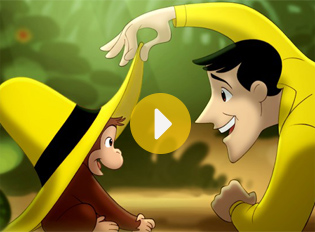
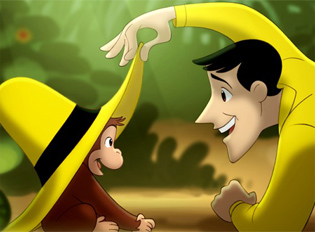
1. Small palyer added

Changed region(s): [[0.4, 0.3922, 0.6286, 0.6638]]

diff --git a/Task2/js/player.js b/Task2/js/player.js
@@ -41,24 +41,17 @@ player.prototype.init = function(){
 	me.__progress = container.getElementsByClassName(me.__progressCss)[0];
 	
 	me.__playButtonLarge = container.getElementsByClassName(me.__playButtonLargeCss)[0];
+	if(me.__playButtonLarge) {
+		me.__playButtonLarge.addEventListener('click', function() { me.togglePlayback(); });
+	}
+	
 	me.__playButtonSmall = container.getElementsByClassName(me.__playButtonSmallCss)[0];
-	me.__playButtonLarge.addEventListener('click', function() { me.togglePlayback(); });
-	me.__playButtonSmall.addEventListener('click', function() { me.togglePlayback(); });
+	if(me.__playButtonSmall) {
+		me.__playButtonSmall.addEventListener('click', function() { me.togglePlayback(); });
+	}
 	
 	me.__video.addEventListener('click', function() { me.togglePlayback(); });
-	
-	me.__video.addEventListener("timeupdate", function() { 
-		var progress = Math.floor(me.__video.currentTime) / Math.floor(me.__video.duration);
-    	me.__progress.style.width = Math.floor(progress * 100) + "%";
-	});
-	
-	me.__video.addEventListener("ended", function() { 
-		me.removeClass(me.__container, me.__containerPlayCss);
-		me.__video.pause();
-		me.__progress.style.width = '0%';
-	});
-	
-	me.__video.addEventListener("play", function() { 
+		me.__video.addEventListener("play", function() { 
 		me.removeClass(me.__container, me.__containerPauseCss);
 		me.__container.className += ' ' + me.__containerPlayCss;
 	});
@@ -66,6 +59,21 @@ player.prototype.init = function(){
 	me.__video.addEventListener("pause", function() { 
 		me.removeClass(me.__container, me.__containerPlayCss);
 		me.__container.className += ' ' + me.__containerPauseCss;
+	});
+	
+	me.__video.addEventListener("timeupdate", function() { 
+		if(me.__progress) {
+			var progress = Math.floor(me.__video.currentTime) / Math.floor(me.__video.duration);
+			me.__progress.style.width = Math.floor(progress * 100) + "%";
+		}
+	});
+
+	me.__video.addEventListener("ended", function() { 
+		me.removeClass(me.__container, me.__containerPlayCss);
+		me.__video.pause();
+		if(me.__progress) {
+			me.__progress.style.width = '0%';
+		}
 	});
 }
 

diff --git a/Task2/index.html b/Task2/index.html
@@ -30,8 +30,8 @@
     <title>Responsive design</title>
     <script type="text/javascript">
 		document.addEventListener('DOMContentLoaded', function() {
-		   var playerLarge = new player('playerLarge');
-			playerLarge.init();
+		   (new player('playerLarge')).init();
+		   (new player('playerSmall')).init();
 		}, false);
 	</script>
 </head>
@@ -127,7 +127,17 @@
                                 sed do eiusmod tempor incididunt ut
                             </div>
                             <div class="column column--video">
-                                <img src="images/player-simple-bg.jpg" style="width:100%;" />
+                                <div id="playerSmall" class="video-player">
+                                    <video 
+                                   		height="100%"
+                                        width="100%"
+                                     	poster="images/player-simple-bg.jpg"
+                                     	src="video/video.mp4">
+                                    </video>
+                                    <div class="play-button-large icon-font-button-play user-noselect">
+                                        <span class="path1"></span><span class="path2"></span>
+                                    </div>
+                                </div>
                             </div>
                         </div>
                     </div>

diff --git a/Task2/css/preview-container.css b/Task2/css/preview-container.css
@@ -1,16 +1,18 @@
 .preview-container
 {
-	table-layout:fixed;
 	max-height:232px;
 }
 
 .preview-container .column--description {
-	font-family:'Segoe WP', Helvetica, sans-serif;
 	color:white;
 	background-color:#ec9e03;
 	padding:3%;
 }
 
+.preview-container .column--video {
+	height:220px;
+	font-size:14px;
+}
 
 @media only screen and (max-width: 940px)
 {
@@ -18,11 +20,20 @@
 		padding:10px;
 		box-sizing:border-box;
 	}
+	
+	.preview-container .column--video {
+		height:230px;
+	}
 }
 
-@media only screen and (max-width: 640px)
+@media only screen and (max-width: 580px)
 {
 	.preview-container {
 		padding:5px;
+	}
+	
+	.preview-container .column--video {
+		height:96px;
+		font-size:10px;
 	}
 }

diff --git a/Task2/css/devices-control.css b/Task2/css/devices-control.css
@@ -24,38 +24,14 @@
     z-index: 1;
 }
 
-.devices-control__item {
-	/*float:left;*/
-	display:inline-block;
-	padding-right:28px;
-	position:relative;
-}
-
-.devices-control__item:last-child{
-	padding-right:0px;
-}
-
-.devices-control__item--monitor {
-
-}
-
-.devices-control__item--tablet {
-	top:-40px;
-}
-
-.devices-control__item--phone {
-	top:-40px;
-}
-
 @media only screen and (max-width: 940px)
 {
 	.devices-control {
 		padding-right:30px;
-		
 	}
 }
 
-@media only screen and (max-width: 640px)
+@media only screen and (max-width: 580px)
 {
 	.devices-control:before
 	{

diff --git a/Task2/css/devices-container.css b/Task2/css/devices-container.css
@@ -10,11 +10,9 @@
 	text-align:center;
 	margin:50px 0px;
 	font-size:43px;
-	font-family: 'Segoe WP', Helvetica, sans-serif;
 }
 
-.devices-container
-{
+.devices-container {
 	margin-bottom:100px;
 }
 
@@ -34,9 +32,9 @@
 	
 	.devices-container .one-half.column.column--devices {
 		display: inline-block;
-		float:none;
 		width:auto;
 		padding-right:0px;
+		float: none;
 	}
 	
 	.devices-container .column--list {
@@ -44,7 +42,7 @@
 	}
 }
 
-@media only screen and (max-width: 640px)
+@media only screen and (max-width: 580px)
 {
 	.devices-title {
 		font-size:20px;

diff --git a/Task2/css/header-container.css b/Task2/css/header-container.css
@@ -32,6 +32,12 @@
 	.header-container-wrap {
 		padding:0px;
 		box-shadow:none;
+		background:none;
+	}
+	
+	.container-table--top {
+		background-color:#585858;
+		width:100%;
 	}
 	
 	.container-table--bottom {
@@ -40,10 +46,5 @@
 	
 	.container-table--bottom .column--title {
 		display:none;
-	}
-	
-	.container-table--top .column--logo {
-		background-color:#585858;
-		width:100%;
 	}
 }

diff --git a/Task2/css/presentation-container.css b/Task2/css/presentation-container.css
@@ -34,7 +34,6 @@
 	font-size: 4.5em;
 }
 
-
 @media only screen and (max-width: 940px)
 {
 	.presentation-container-wrap {
@@ -70,7 +69,7 @@
 	}
 }
 
-@media only screen and (max-width: 640px)
+@media only screen and (max-width: 580px)
 {
 	.presentation-container {
 		font-size:14px;

diff --git a/Task2/css/main-menu.css b/Task2/css/main-menu.css
@@ -61,7 +61,7 @@
 	}
 }
 
-@media only screen and (max-width: 640px)
+@media only screen and (max-width: 580px)
 {
 	.main-menu__item {
 		font-size:10px;

diff --git a/Task2/css/icon-control.css b/Task2/css/icon-control.css
@@ -19,7 +19,7 @@
 	}
 }
 
-@media only screen and (max-width: 640px)
+@media only screen and (max-width: 580px)
 {
 	.icon-control {
 		font-size:14px;

diff --git a/Task2/css/video-player.css b/Task2/css/video-player.css
@@ -97,7 +97,7 @@
 	}
 }
 
-@media only screen and (max-width: 640px)
+@media only screen and (max-width: 580px)
 {
 	.video-panel {
 		font-size:14px;	

diff --git a/Task2/css/main-logo.css b/Task2/css/main-logo.css
@@ -45,7 +45,7 @@
 	}
 }
 
-@media only screen and (max-width: 640px)
+@media only screen and (max-width: 580px)
 {
 	.main-logo {
 		font-size: 10px;
